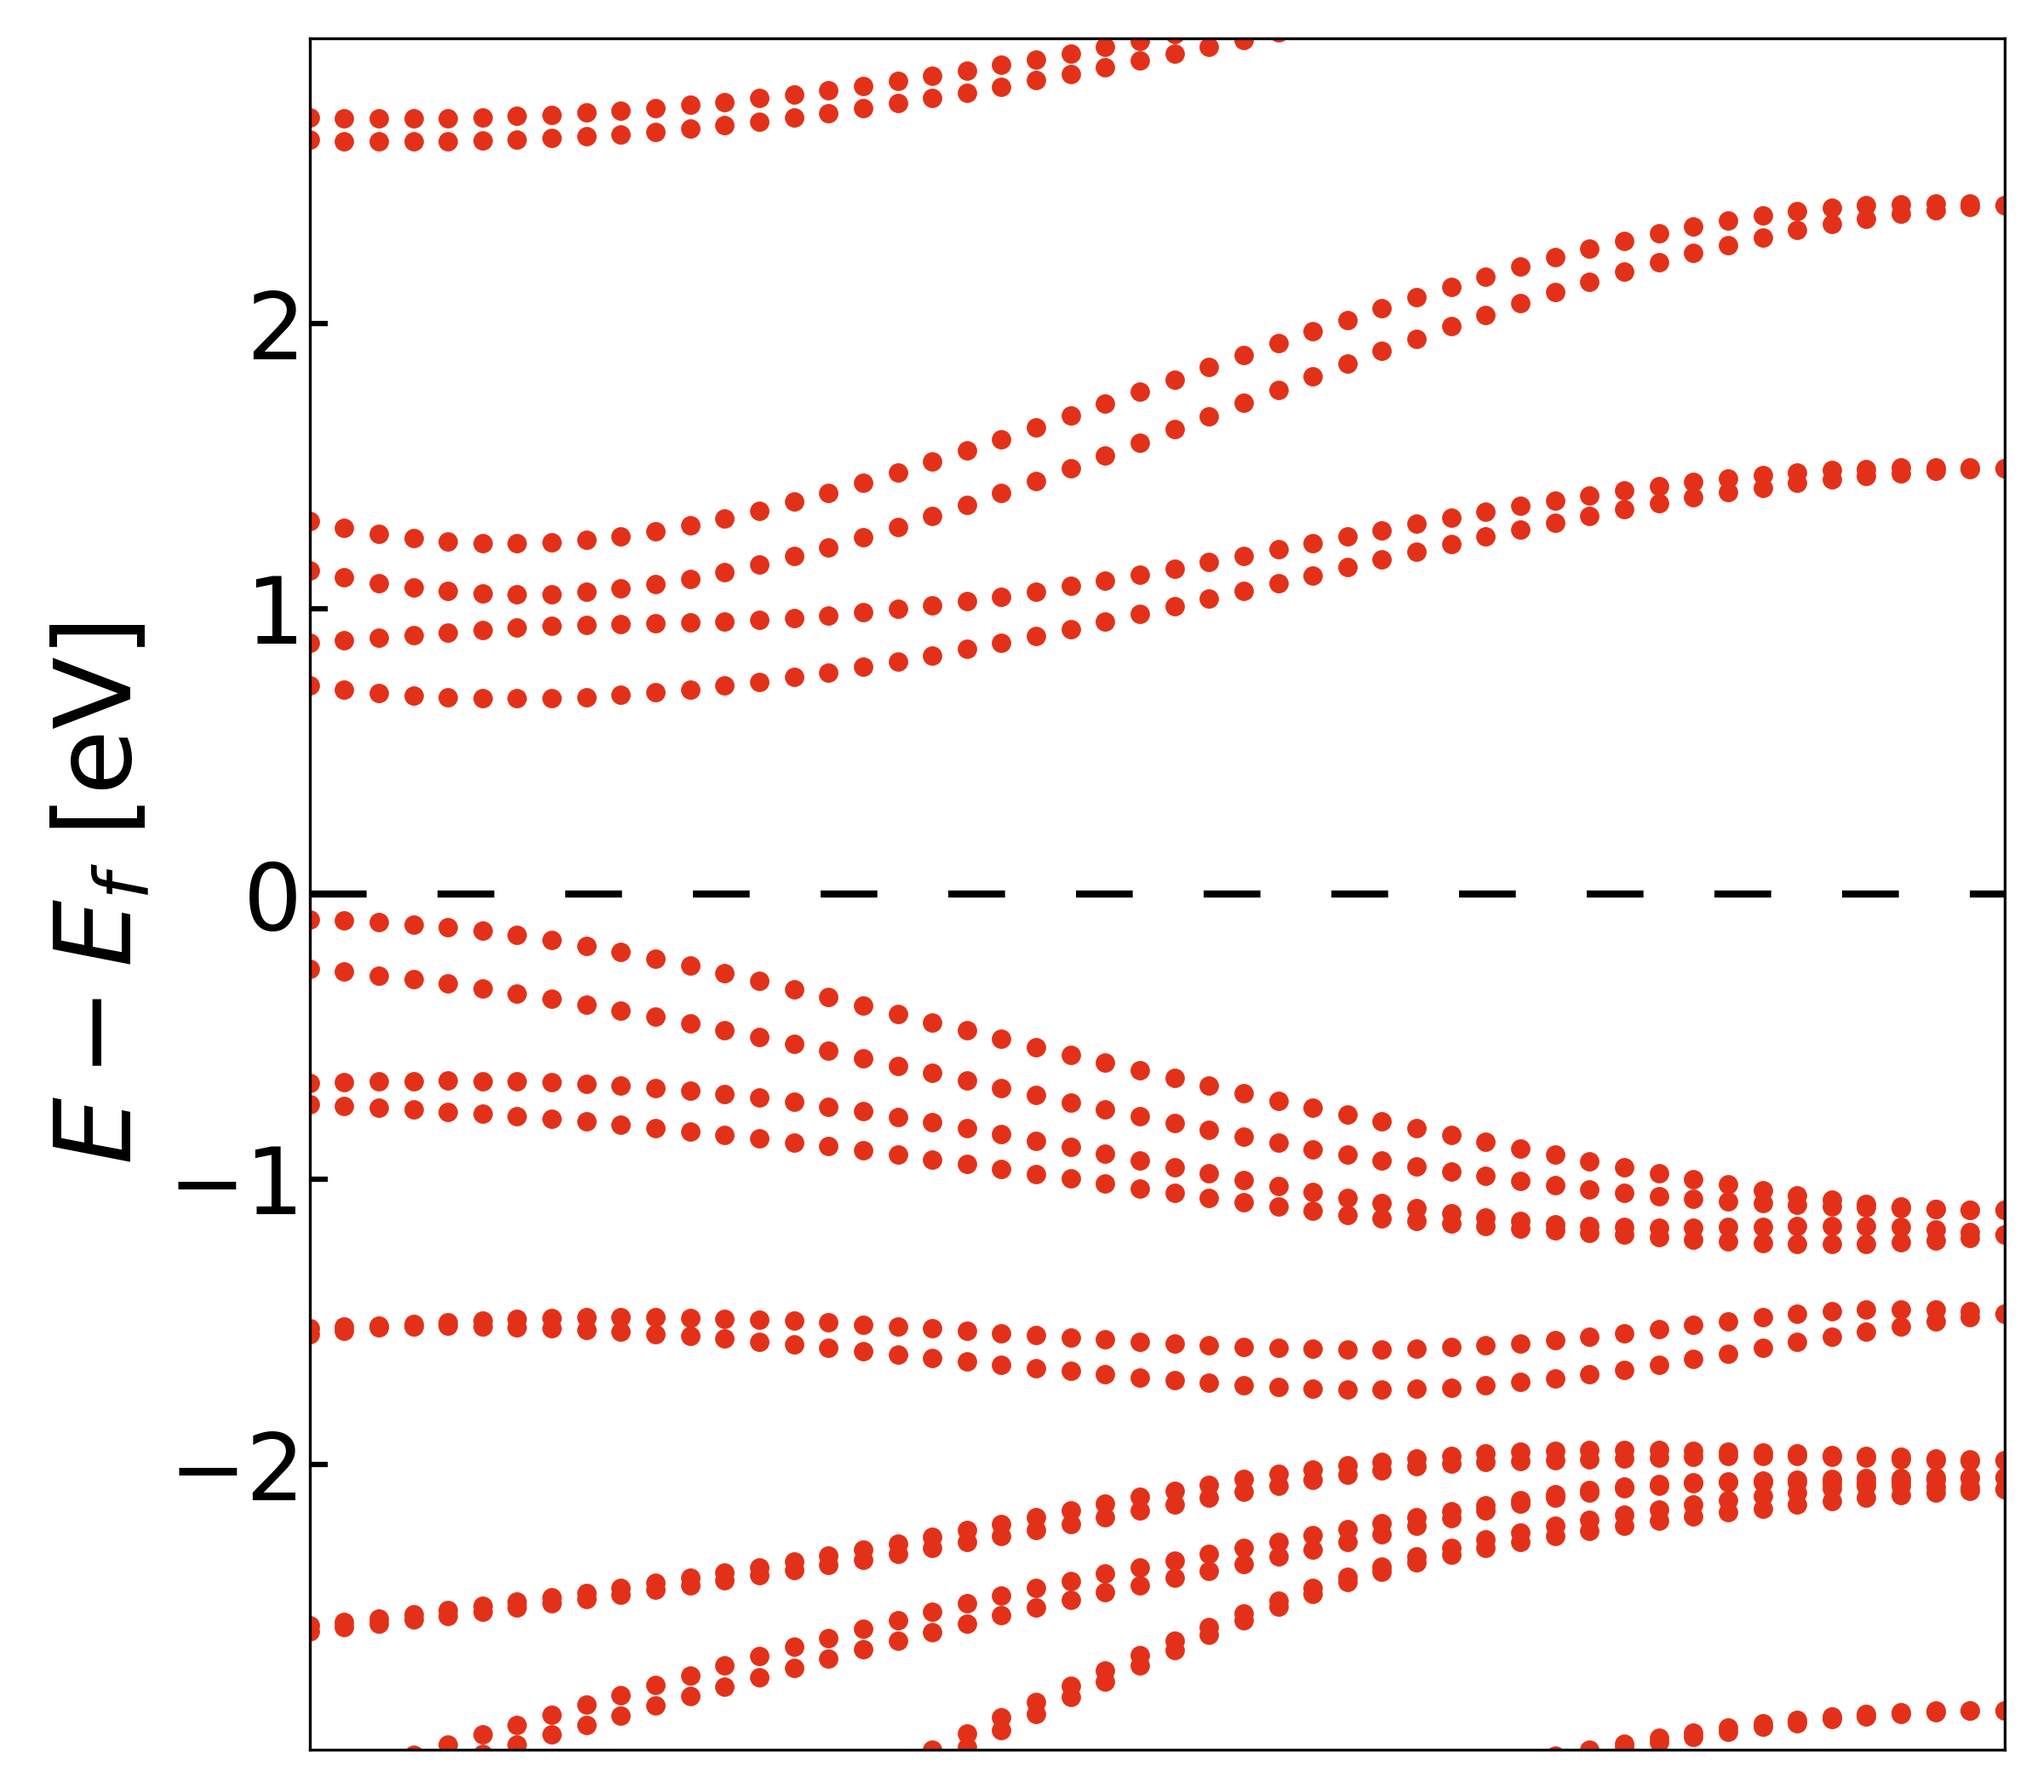
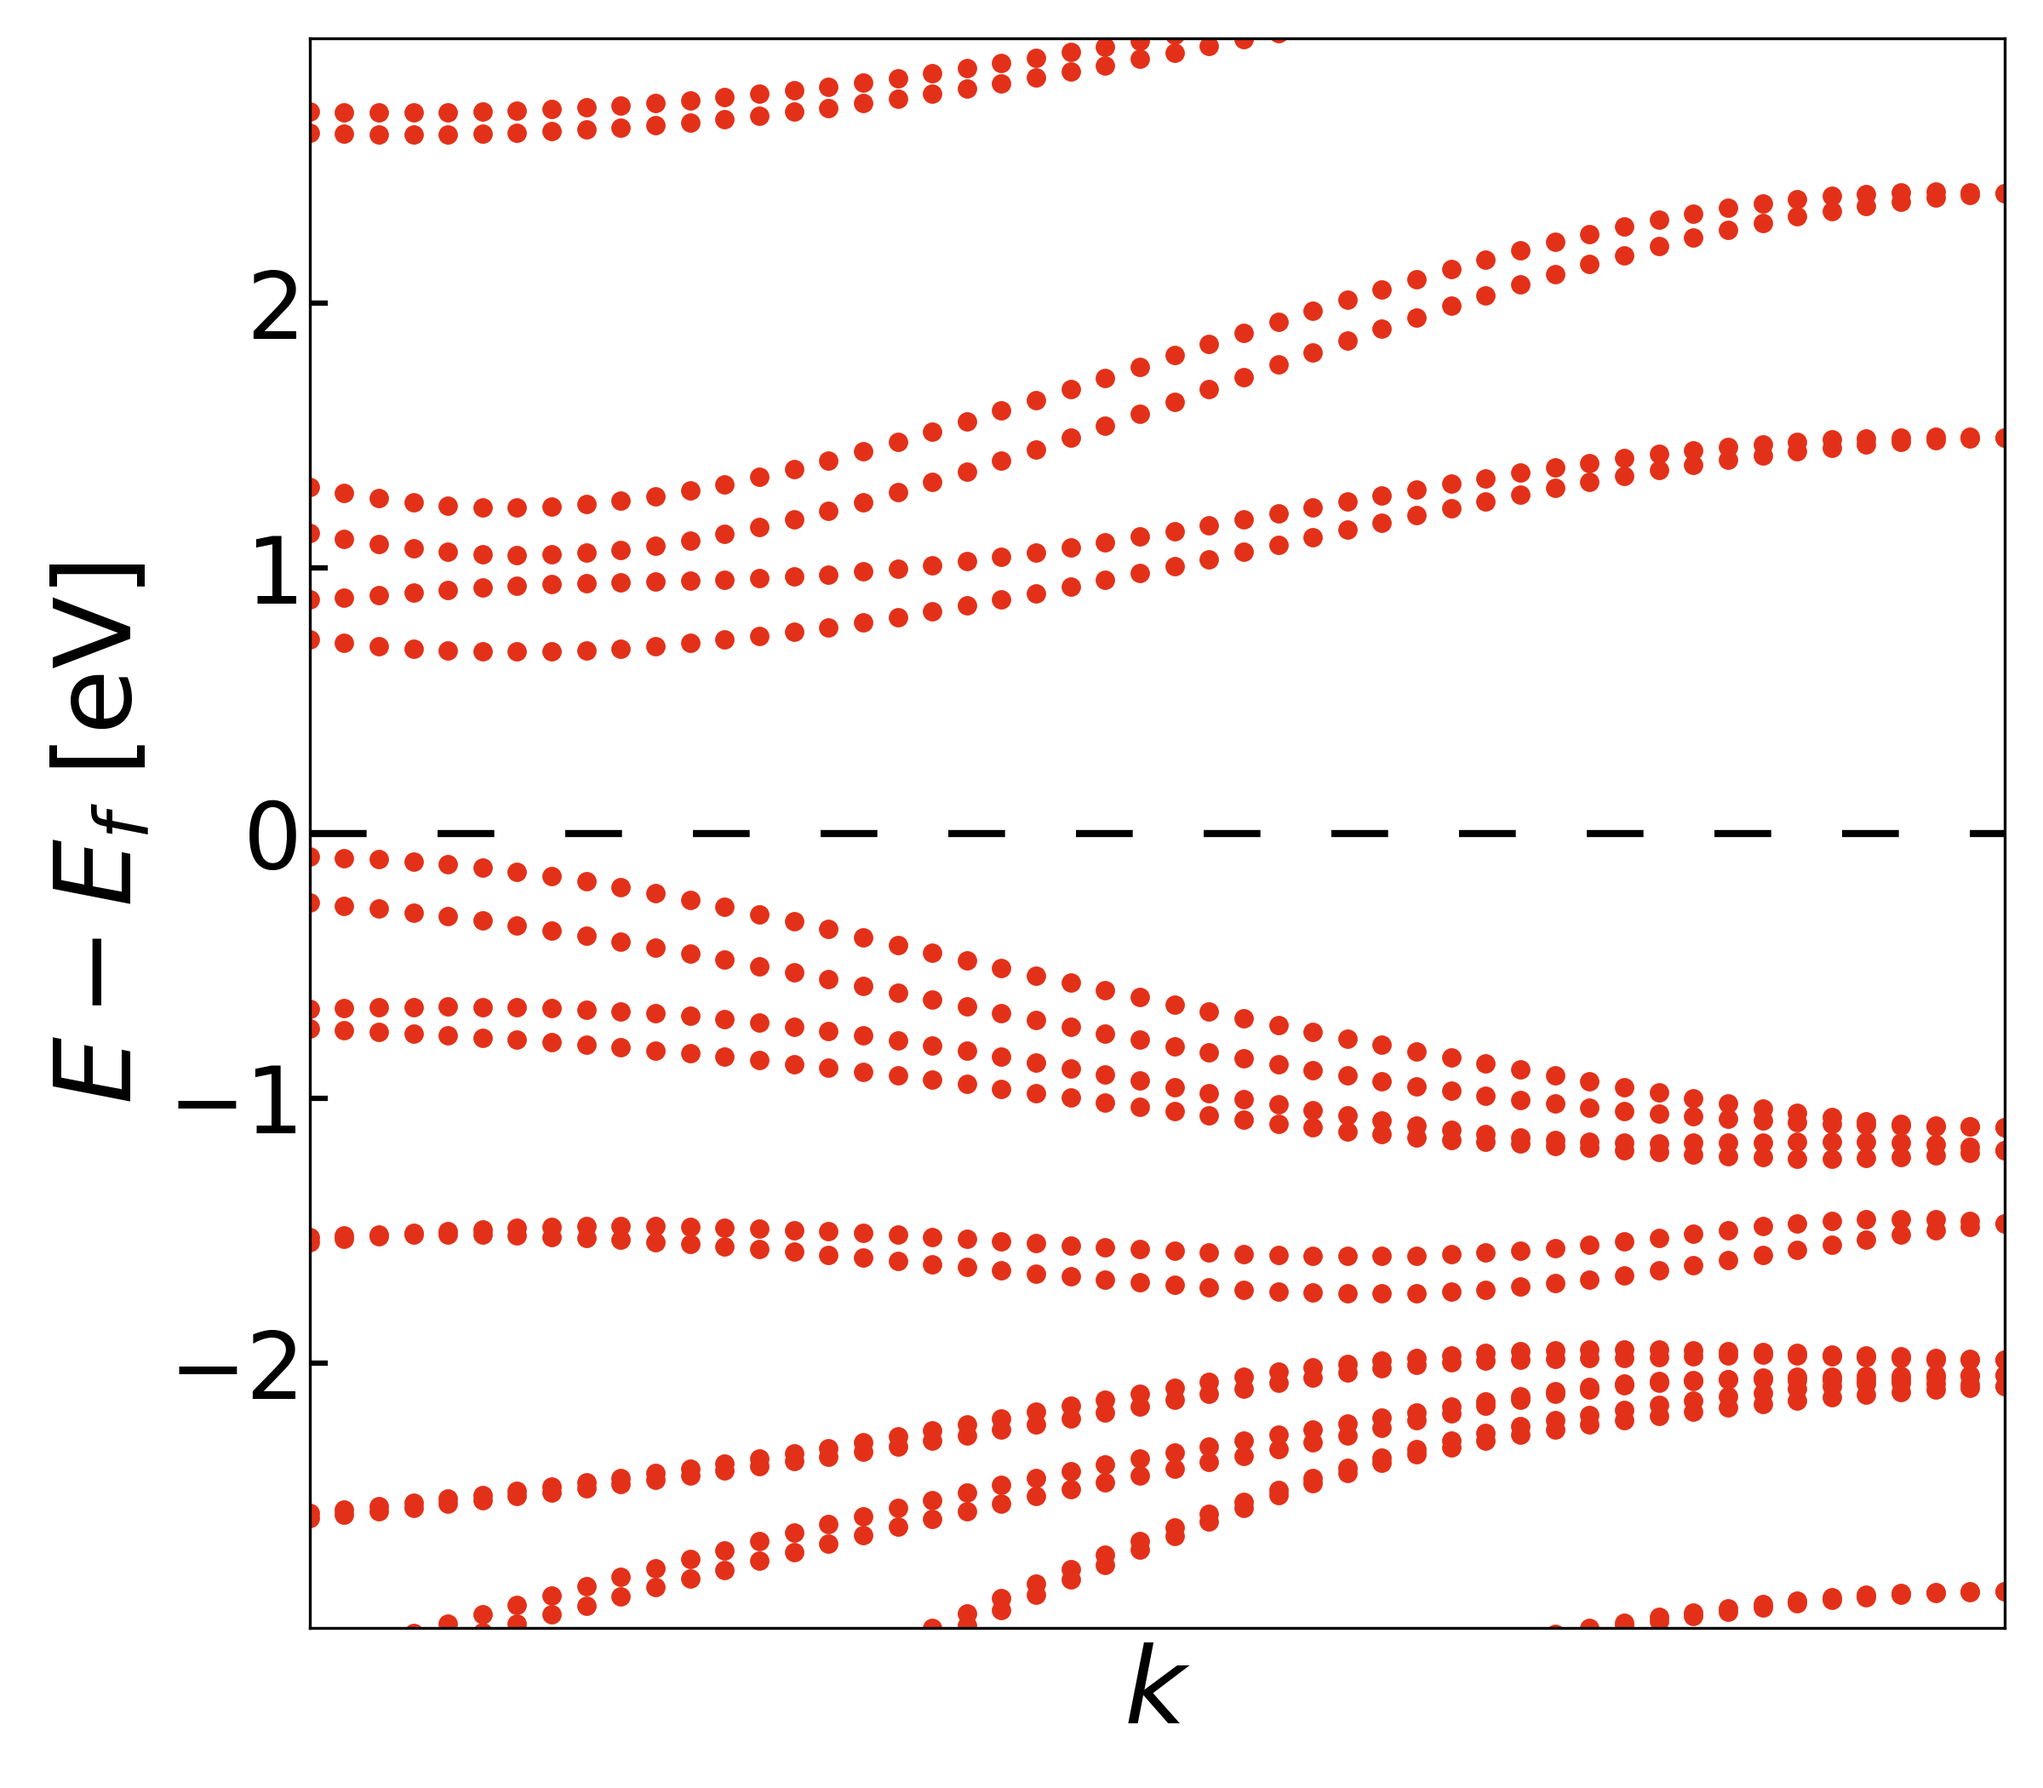
finishing unfold plot

diff --git a/02_Computational/SuperCell/unfolding.py b/02_Computational/SuperCell/unfolding.py
@@ -2,7 +2,7 @@ from scipy.io import loadmat
 import matplotlib.pyplot as plt
 import numpy as np
 
-path = 1
+path = 2
 primitive_file = f'./Path {path}/primitive.mat'
 primitive_data = loadmat(primitive_file)
 
@@ -23,6 +23,7 @@ ax.set_xticks([])
 ax.set_yticks([-2, -1, 0, 1, 2])
 # ax.set_xticks(ticks = tick_pos, labels = labels, fontsize = 30)
 ax.set_ylabel(r'$E-E_f$ [eV]', fontsize = 30)
+ax.set_xlabel(r'$k$', fontsize = 30)
 ax.set_ylim((-3, 3))
 ax.set_xlim((0, 49))
 ax.tick_params(axis = 'both', which = 'both', top = False, right = False, width = 1.5, length = 5, direction = 'in', labelsize = 26)
@@ -52,6 +53,7 @@ ax.set_xticks([])
 ax.set_yticks([-3, -2, -1, 0, 1, 2])
 # ax.set_xticks(ticks = tick_pos, labels = labels, fontsize = 30)
 ax.set_ylabel(r'$E-E_f$ [eV]', fontsize = 30)
+ax.set_xlabel(r'$k$', fontsize = 30)
 ax.set_ylim((-3-dE_f, 3-dE_f))
 ax.set_xlim((0, 50))
 ax.tick_params(axis = 'both', which = 'both', top = False, right = False, width = 1.5, length = 5, direction = 'in', labelsize = 26)
